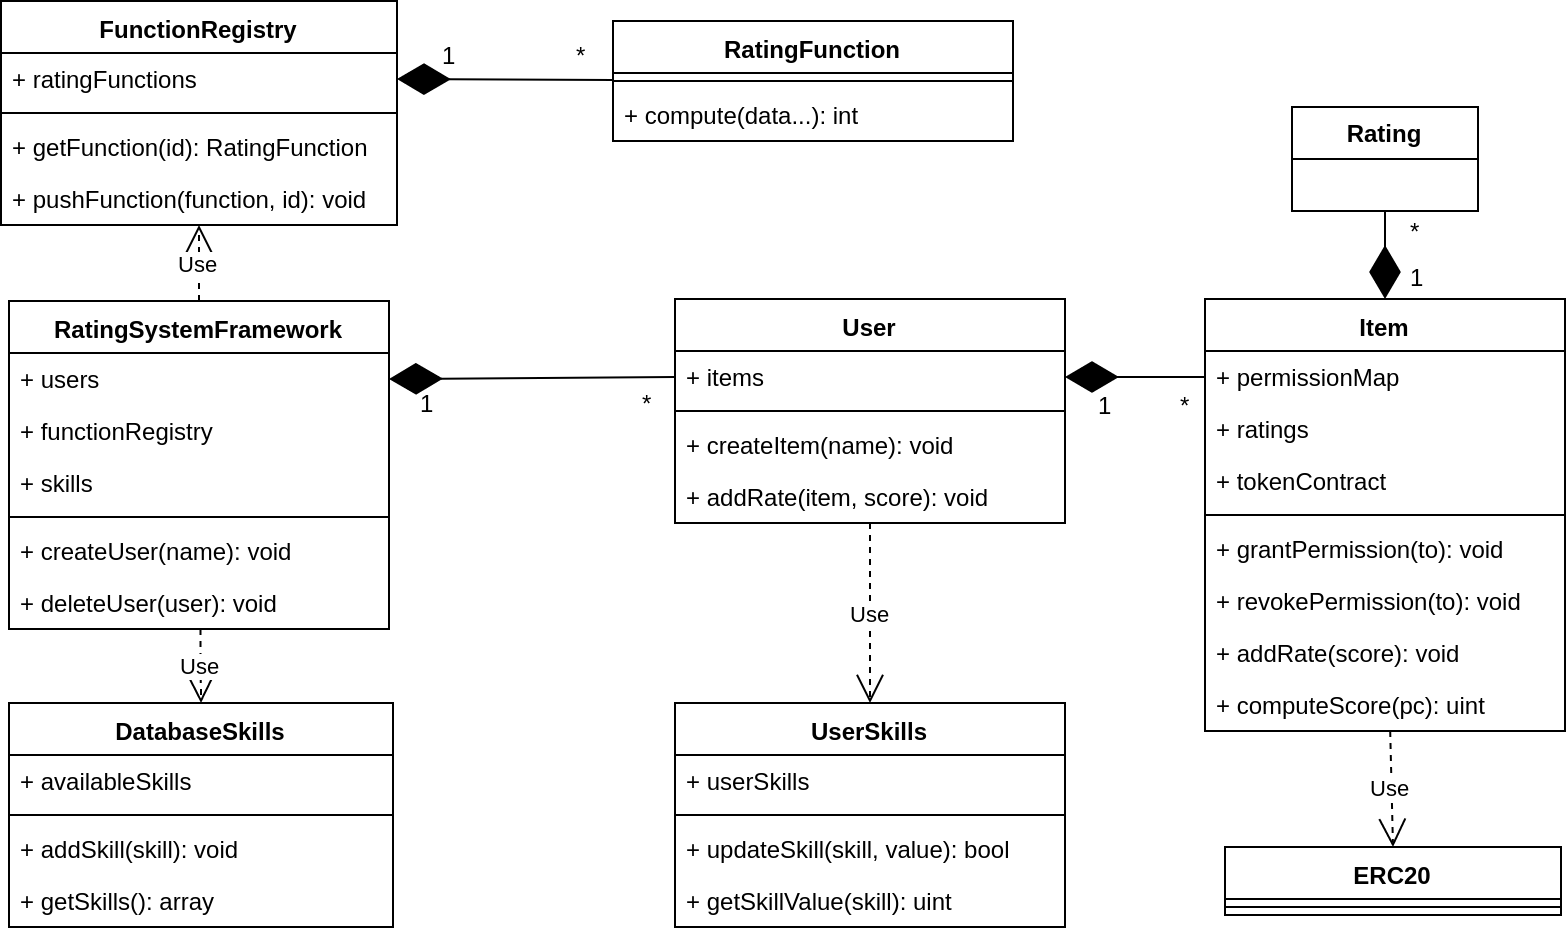
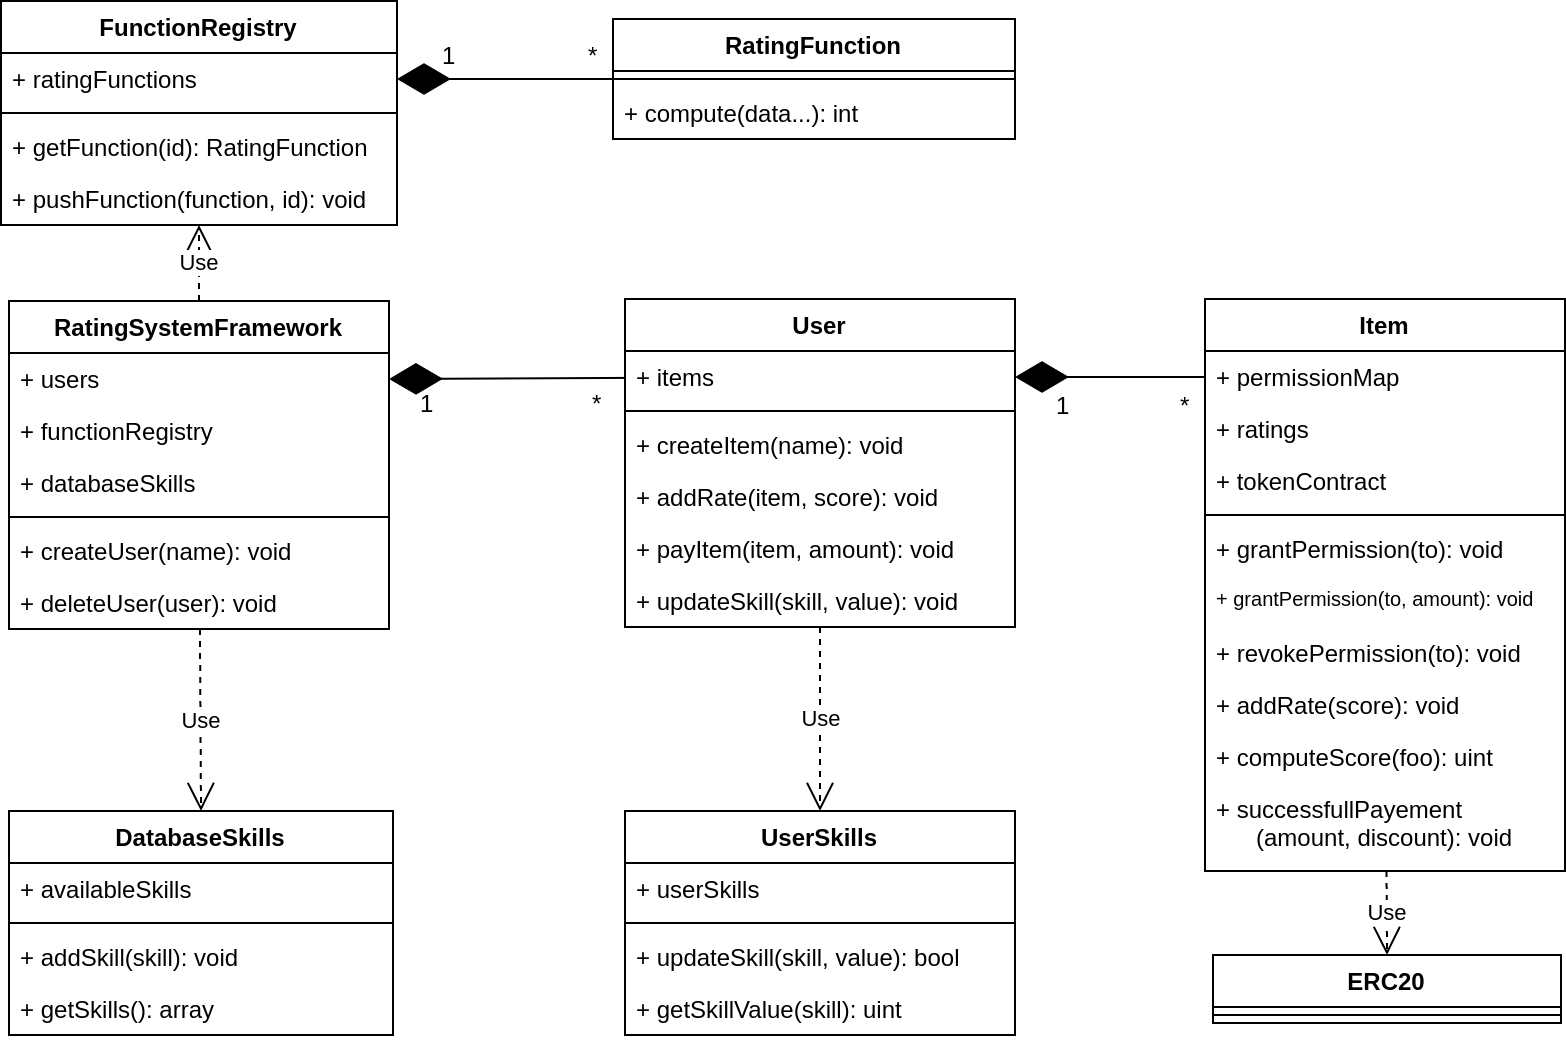
Included commitPermission to Item. Modified contracts and README accordingly

diff --git a/test/test_commitment.js b/test/test_commitment.js
@@ -1,0 +1,154 @@
+const RatingSystem = artifacts.require("RatingSystemFramework");
+const Storage = artifacts.require("AssetStorage");
+const User = artifacts.require("User");
+const Item = artifacts.require("Item");
+const FunctionRegistry = artifacts.require("./FunctionRegistry");
+const SimpleFunction = artifacts.require("./SimpleAvarageFunction");
+const WeightFunction = artifacts.require("./WeightedAverageFunction");
+const WeightSkillFunction = artifacts.require("./WeightedAverageSkillFunction");
+const DatabaseSkills = artifacts.require("./DatabaseSkills");
+const ERC20 = artifacts.require("-/Token/ERC20");
+
+//RatingSystem.numberFormat = "BN";
+
+contract("Item", accounts => {
+
+    const alice = accounts[1]; // System creator
+    const bob = accounts[8];   // User of the System
+    const carl = accounts[7];  // Rater EOA user
+    const dave = accounts[6];  // Error Test user
+
+    const bobName = "Bob";
+    const bobItemName = "Bobs content";
+    const bobItemTokenName = "Bob Item Token";
+    const bobItemTokenSymbol = "BTK";
+    const totalSupply = 1000000;
+    const bobItemTokenValue = 100;
+    const bobItemSkill = "Vegetarian";
+    
+    const score = 5;
+
+    const carlName = "Carl";
+    
+    const newSkill = "Skill5";
+    const carl2bobPayment = web3.utils.toWei('0.5', 'ether');
+
+
+    /////////////////
+    // Tests concerning Users
+    /////////////////
+
+
+    describe("Testing the commitment functionality", function() {
+
+        let ratingSystem;
+        let bobUserAddress, bobObject, bobItemAddress, bobItemObject;
+        let carlUserAddress, carlObject;
+        
+        beforeEach(async function() {
+            let tx1, tx2;
+            
+            ratingSystem = await RatingSystem.new({from: alice});
+            // const avgPc = await deployer.deploy(SimpleFunction, {from: alice});
+            // const registryAddress = await ratingSystem.functionRegistry();
+            // const registry = await FunctionRegistry.at(registryAddress);            
+            // await registry.pushFunction(avgPc.address, web3.utils.fromUtf8("Simple Average"), {from: alice});
+
+            // Populate DatabaseSkills
+            const dbSkillsAddress = await ratingSystem.dbSkills();
+            const dbSkills = await DatabaseSkills.at(dbSkillsAddress);
+            await dbSkills.addSkill(web3.utils.fromUtf8("Vegetarian"), {from:alice});
+            await dbSkills.addSkill(web3.utils.fromUtf8("Meat"), {from:alice});
+            await dbSkills.addSkill(web3.utils.fromUtf8("Sushi"), {from:alice});
+            await dbSkills.addSkill(web3.utils.fromUtf8("Fish"), {from:alice});
+             
+            // Create User Bob, Carl
+            tx1 = await ratingSystem.createUser(web3.utils.fromUtf8(bobName), {from: bob});
+            bobUserAddress = await ratingSystem.getMyUserContract({from: bob});
+            bobObject = await User.at(bobUserAddress);
+                
+            await ratingSystem.createUser(web3.utils.fromUtf8(carlName), {from: carl});
+            carlUserAddress = await ratingSystem.getMyUserContract({from: carl});
+            carlObject = await User.at(carlUserAddress);
+            
+            // Create Item Bob
+            tx2 = await bobObject.createItem(web3.utils.fromUtf8(bobItemName), web3.utils.fromUtf8(bobItemSkill), bobItemTokenName, bobItemTokenSymbol, bobItemTokenValue, {from: bob});
+            const itemList = await bobObject.getItems();
+            bobItemAddress = itemList[0];
+            bobItemObject = await Item.at(bobItemAddress);
+
+            console.log("User creation: " + tx1.receipt.gasUsed);
+            console.log("Item creation: " + tx2.receipt.gasUsed);
+        });
+        
+        it("Successful commitment", async() => {
+
+            // Test Commitment (no tokens)
+            let tx;
+            tx = await bobItemObject.commitPermission(carlUserAddress, carl2bobPayment, {from: bob});
+            console.log("CommitPermission gas: " + tx.receipt.gasUsed);
+
+            const commit = await bobItemObject.isCommited(carlUserAddress, carl2bobPayment);
+            assert.equal(commit, true);
+
+            // Test payItem cost with grantPermission
+            tx = await carlObject.payItem(bobItemAddress, carl2bobPayment, {from:carl, value: carl2bobPayment});
+            console.log("PayItem gas: " + tx.receipt.gasUsed);
+            await carlObject.addRate(bobItemAddress, score, {from: carl});
+
+            assert.equal(await bobItemObject.ratingCount(), 1);
+
+            // Test payItem cost with grantPermission
+            tx = await bobItemObject.grantPermission(carlUserAddress, {from: bob});
+            console.log("GrantPermission gas: " + tx.receipt.gasUsed);
+
+            // tx = await carlObject.payItem(bobItemAddress, carl2bobPayment, {from:carl, value: carl2bobPayment});
+            // console.log("PayItem gas: " + tx.receipt.gasUsed);
+            // tx = await carlObject.addRate(bobItemAddress, score, {from: carl});
+            // console.log("addRate gas: " + tx.receipt.gasUsed);
+
+        });
+        // Ok
+
+        
+        it("Successful commitment with tokens", async() => {
+
+            // Test Commitment
+                // Let carl have at least a token
+                // DEV: unfortunately is not possible to issue him tokens directly because the owner of the ERC20 is the contract and not Bob EOA
+                // carl gest 1 token after second rating (because the Item first gives tokens, then improves skill)
+            let tx1, tx2, tx3;
+            let token = await bobItemObject.tokenContract();
+            token = await ERC20.at(token);            
+            await bobItemObject.commitPermission(carlUserAddress, carl2bobPayment, {from: bob});
+            tx1 = await carlObject.payItem(bobItemAddress, carl2bobPayment, {from:carl, value: carl2bobPayment});
+            await carlObject.addRate(bobItemAddress, score, {from: carl});
+
+            await bobItemObject.commitPermission(carlUserAddress, carl2bobPayment, {from: bob});
+            tx2 = await carlObject.payItem(bobItemAddress, carl2bobPayment, {from:carl, value: carl2bobPayment});
+            await carlObject.addRate(bobItemAddress, score, {from: carl});
+
+            await bobItemObject.commitPermission(carlUserAddress, carl2bobPayment, {from: bob});
+
+            // Test payItem to successfully check the commitment with amount and tokens
+            tx3 = await carlObject.payItem(bobItemAddress, carl2bobPayment, {from:carl, value: carl2bobPayment});
+
+            console.log(tx1.receipt.gasUsed, tx2.receipt.gasUsed, tx3.receipt.gasUsed);
+            // No execptions => ok
+        });
+        // Ok
+
+        it("addRate with commitment, no permission", async() => {
+
+            // Test Commitment
+            let tx;
+            tx = await bobItemObject.commitPermission(carlUserAddress, carl2bobPayment, {from: bob});
+            await carlObject.addRate(bobItemAddress, score, {from: carl}).then(assert.fail).catch(function(error) {
+                // Should fail because dave is not an User contract address
+                assert(error.message.indexOf('revert') >= 0);
+            });
+        });
+        // Ok
+    
+    });
+});

diff --git a/test/RateSkillTest.js b/test/RateSkillTest.js
@@ -78,11 +78,14 @@ contract("RatingSystemFramework: correctness test", accounts => {
         assert.equal(web3.utils.toUtf8(await bobItemObject.skill()), bobItemSkill, "Bob's item skill doesn't match");
         
         // update Carl skills with value equal to 3
-        await carlObject.updateSkill(web3.utils.fromUtf8(bobItemSkill), 3);
+        // await carlObject.updateSkill(web3.utils.fromUtf8(bobItemSkill), 3);
 
         // retrieve Carl skills
         const carlSkillsAddress = await carlObject.skills();
         const carlSkillsObject = await UserSkills.at(carlSkillsAddress);
+
+        // update Carl skills with value equal to 3
+        await carlSkillsObject.updateSkill(web3.utils.fromUtf8(bobItemSkill), 3);
 
         // check if Carl's skill has been update
         assert.equal(await carlSkillsObject.getSkillsNumber(), 1, "Carl skills number doesn't match");

diff --git a/README.md b/README.md
@@ -23,9 +23,11 @@ The smart contract build up a system, with an entry point called RSF (Rating Sys
 
 The ratings can be read and used to compute the item final score by smart contracts called RatingFunctions. A rating function can implements any formulas, for example a simple average or weighted average on certain parameters.
 
-Moreover, the smart contracts provide the concept of "skill", i.e. a keyword identifying the property of an item. When a user rates an item he collects experience on the item's skill. If the user has high enough experience on the rated item's skill the user receives a discount proportional to the experience: the discount is represented by ERC20 tokens and can be used only on the item that issued them. However, being ERC20 compliant, such tokens are interchangeable across the Ethereum network.
+Moreover, the smart contracts provide the concept of "skill", i.e. a keyword identifying the property of an item. When a user rates an item he collects experience on the item's skill. If the user has high enough experience on the rated item's skill the user receives a discount proportional to the experience: the discount is represented by ERC20 tokens and can be used only on the item that issued them. In this way, each Item owner can set the best properties for them to the token (like price, total amount etc). 
 
-![imgs](./imgs/Eth-Summary.png)
+The Grant Permission shown in the figure below has the following semantics: if the customer pays (in crypto) the amount expected by the restaurant, the customer automatically receives the permissions to rate the restaurant. In the code such Grant Permission is called *commitPermission*. The motivation is described below the contract diagram.
+
+![imgs](./imgs/SummaryDiagram.png)
 
 ## Features
 
@@ -38,6 +40,8 @@ Moreover, the smart contracts provide the concept of "skill", i.e. a keyword ide
 ## Class diagram
 
 ![classes](./imgs/Classes.png)
+
+**Note:** In the diagram the contract Item has two grantPermission functions. However, due to issues from Truffle with function overloading ([ref](https://github.com/trufflesuite/truffle/issues/737)) in the code the Item contract the function *grantPermision(to, amount)* is called *commitPermission(to, amount)*.
 
 ## Installation and usage
 
